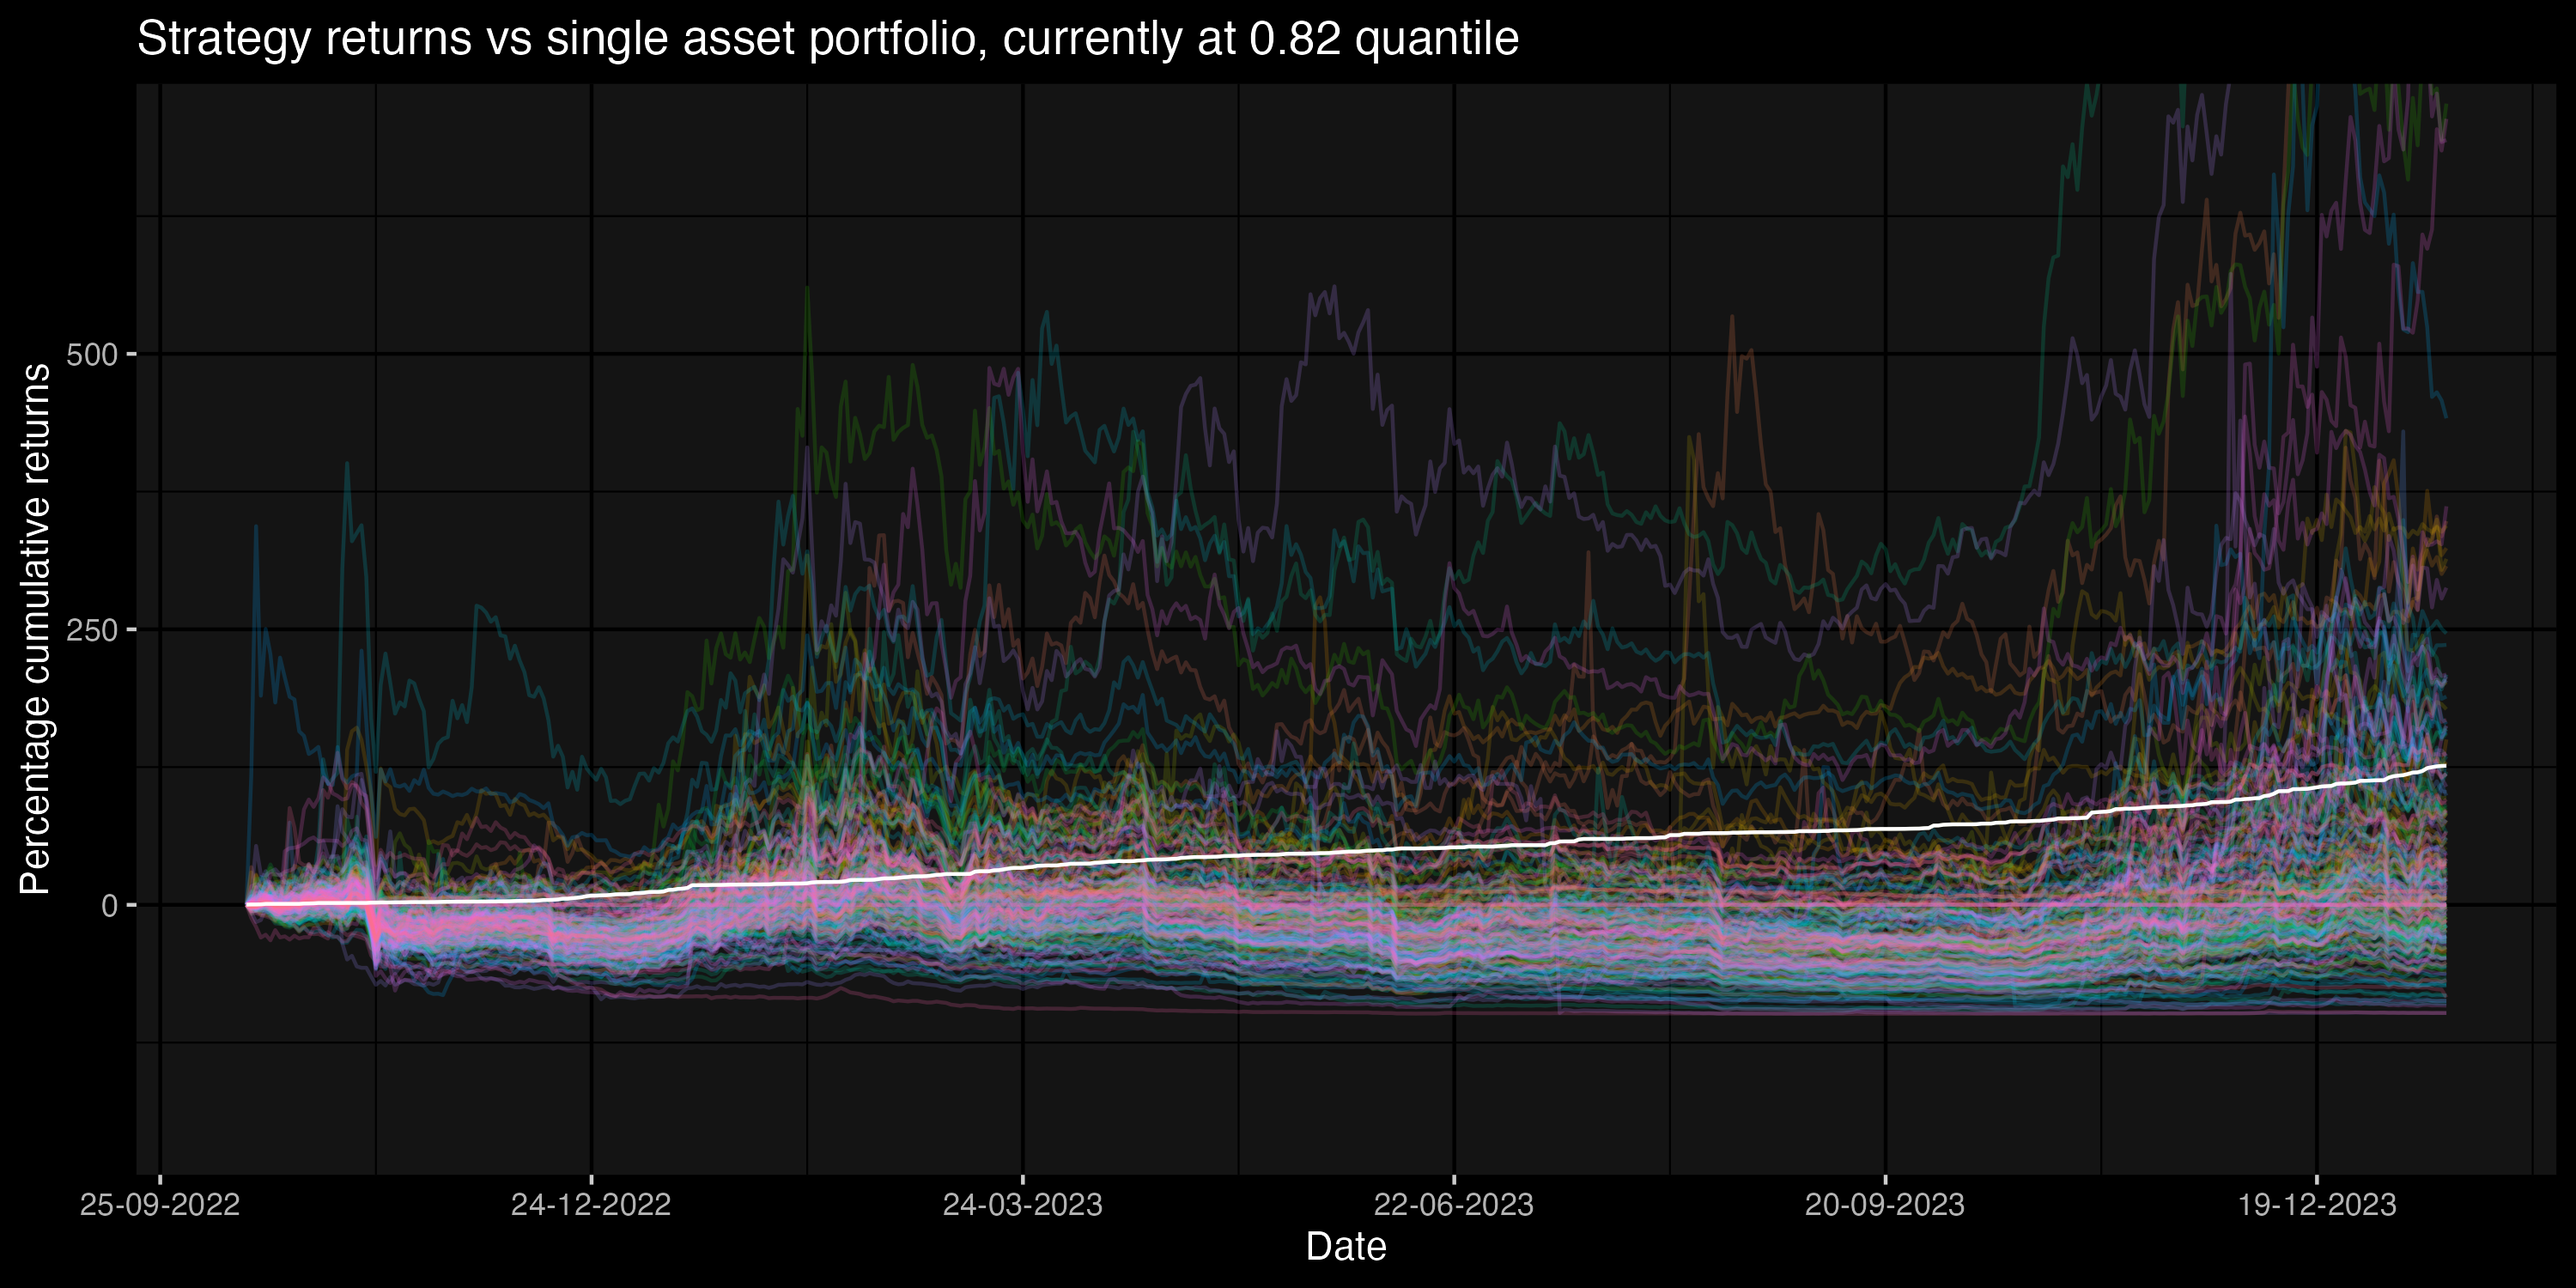
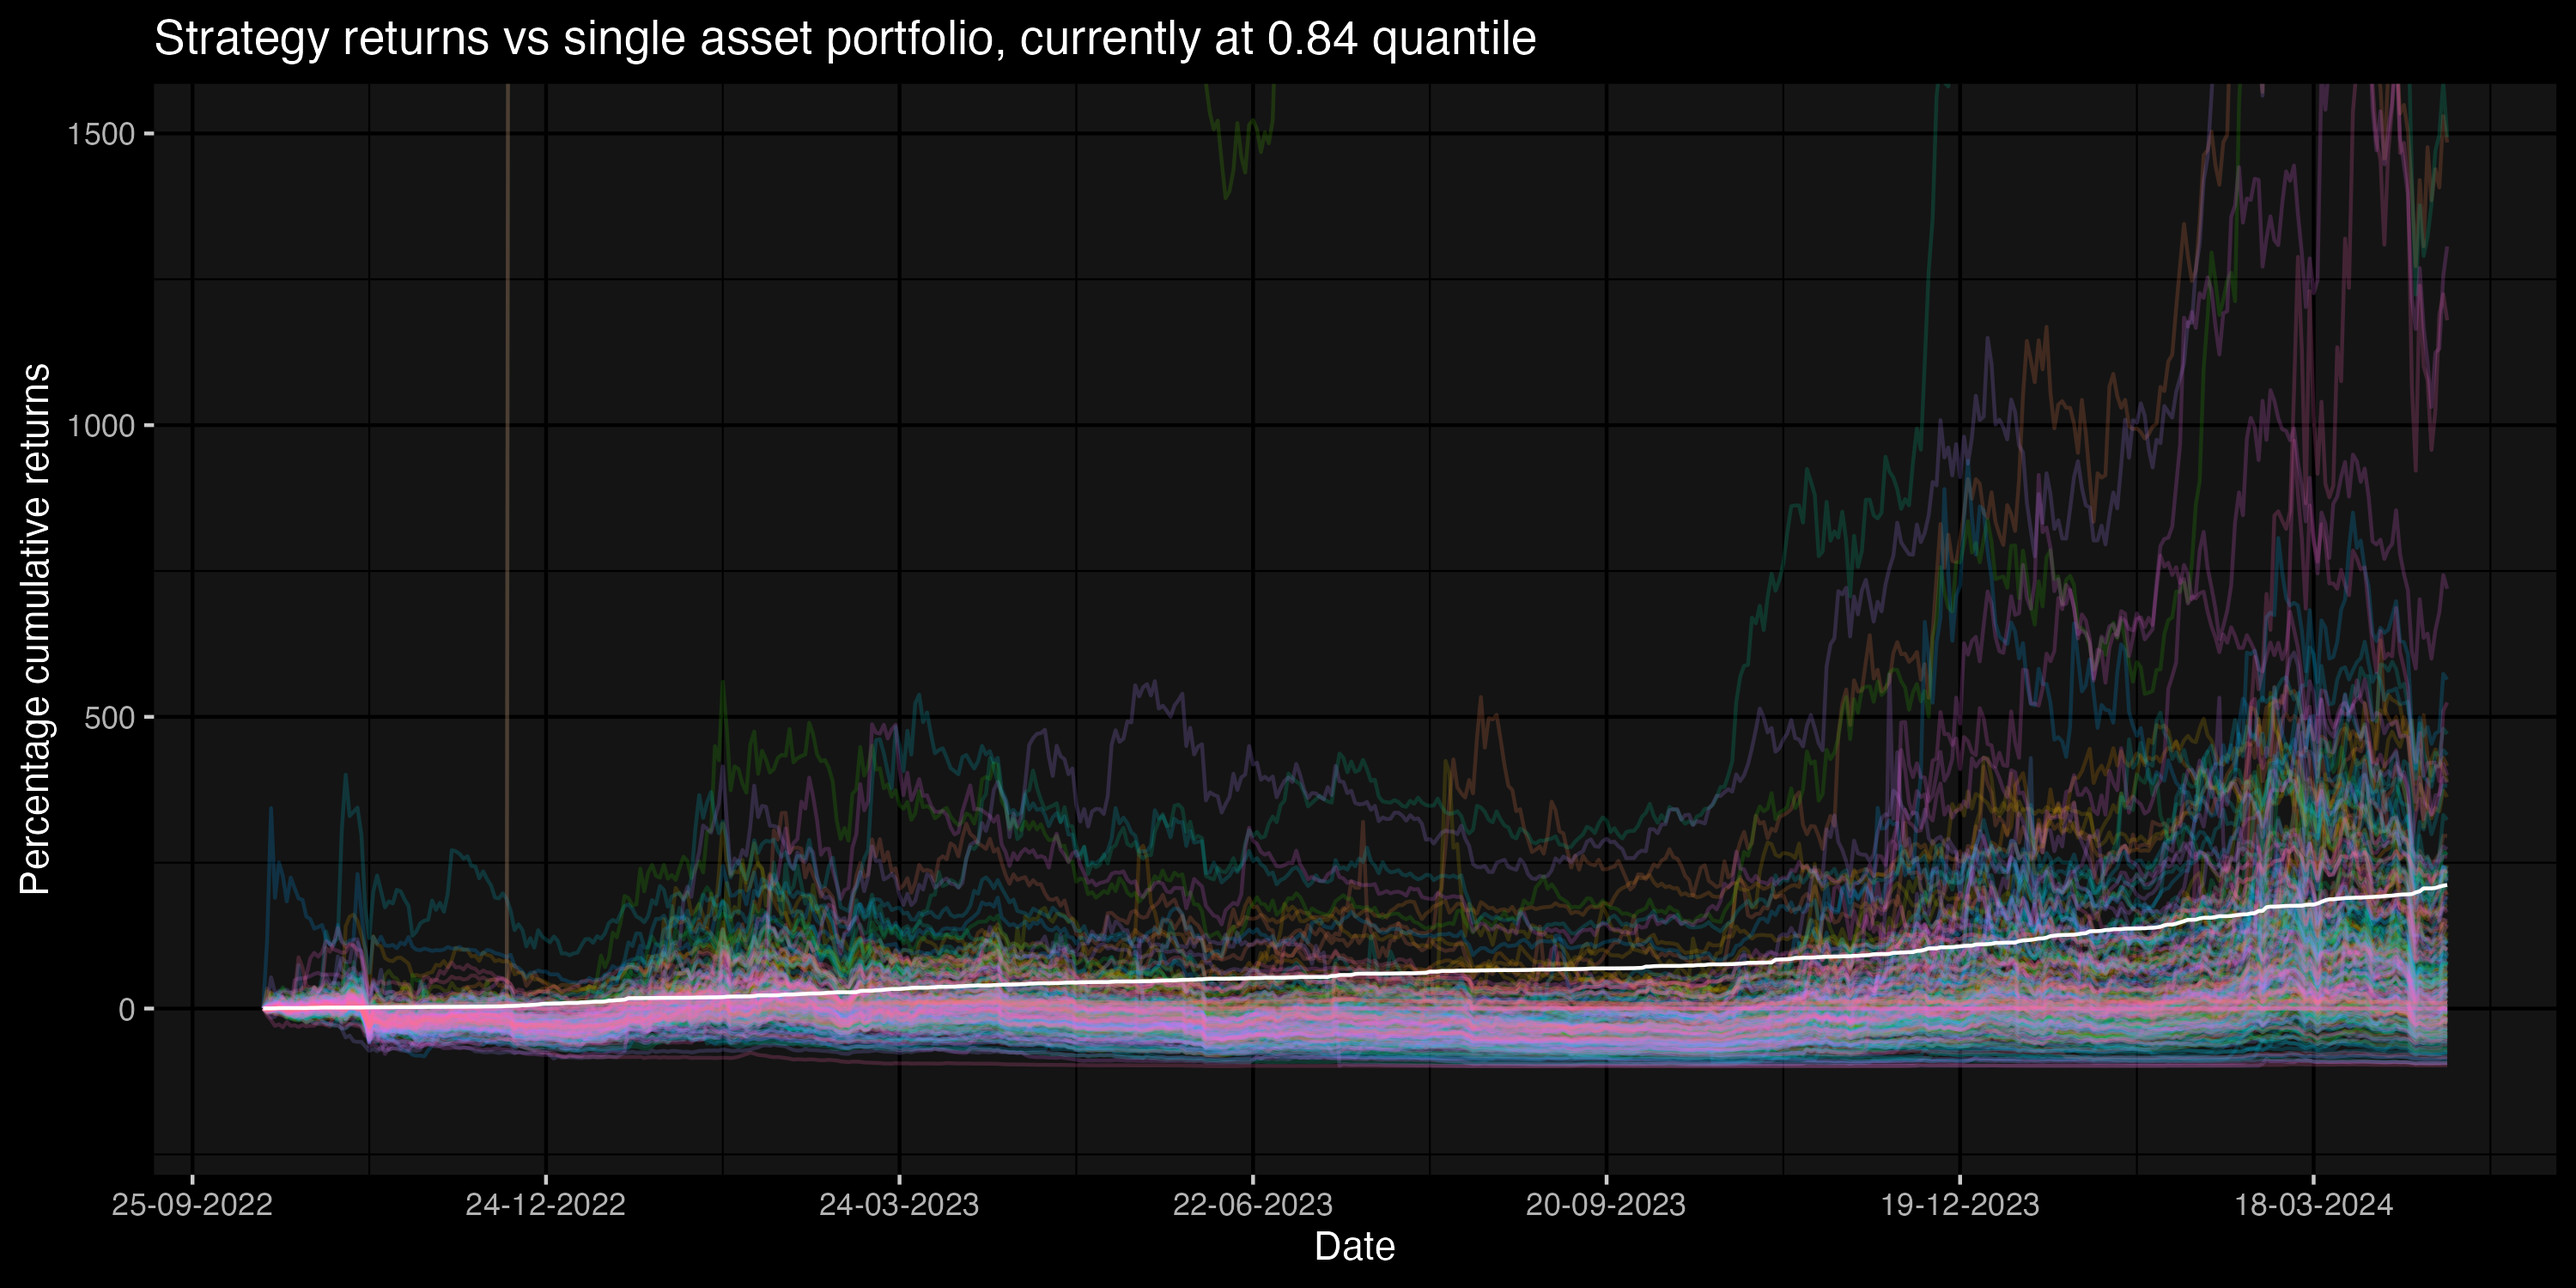
updating

diff --git a/README.md b/README.md
@@ -32,19 +32,19 @@ The first test live trading session started on Oct 13, 2022 and is running to th
 | Column      | Value |
 | ----------- | ----------- |
 |Start|2022-10-13|
-|End|2024-01-15|
+|End|2024-04-21|
 |Initial funds available (USD)|1150|
-|Returns in USD|1451|
-|Returns in %|126.2|
-|N trades|3565|
-|Wins|3520|
-|Losses|45|
-|Win ratio|98.7|
-|Average win %|9.3|
-|Biggest win %|166.6|
+|Returns in USD|2438|
+|Returns in %|211.9|
+|N trades|5186|
+|Wins|5139|
+|Losses|47|
+|Win ratio|99.1|
+|Average win %|10.1|
+|Biggest win %|177|
 |Biggest loss %|-55.3|
-|Days trading|459|
-|Average n trades per day|7.8|
+|Days trading|555|
+|Average n trades per day|9.34|
 
 
 ![Alt text](/Images/dce.png?raw=true)
